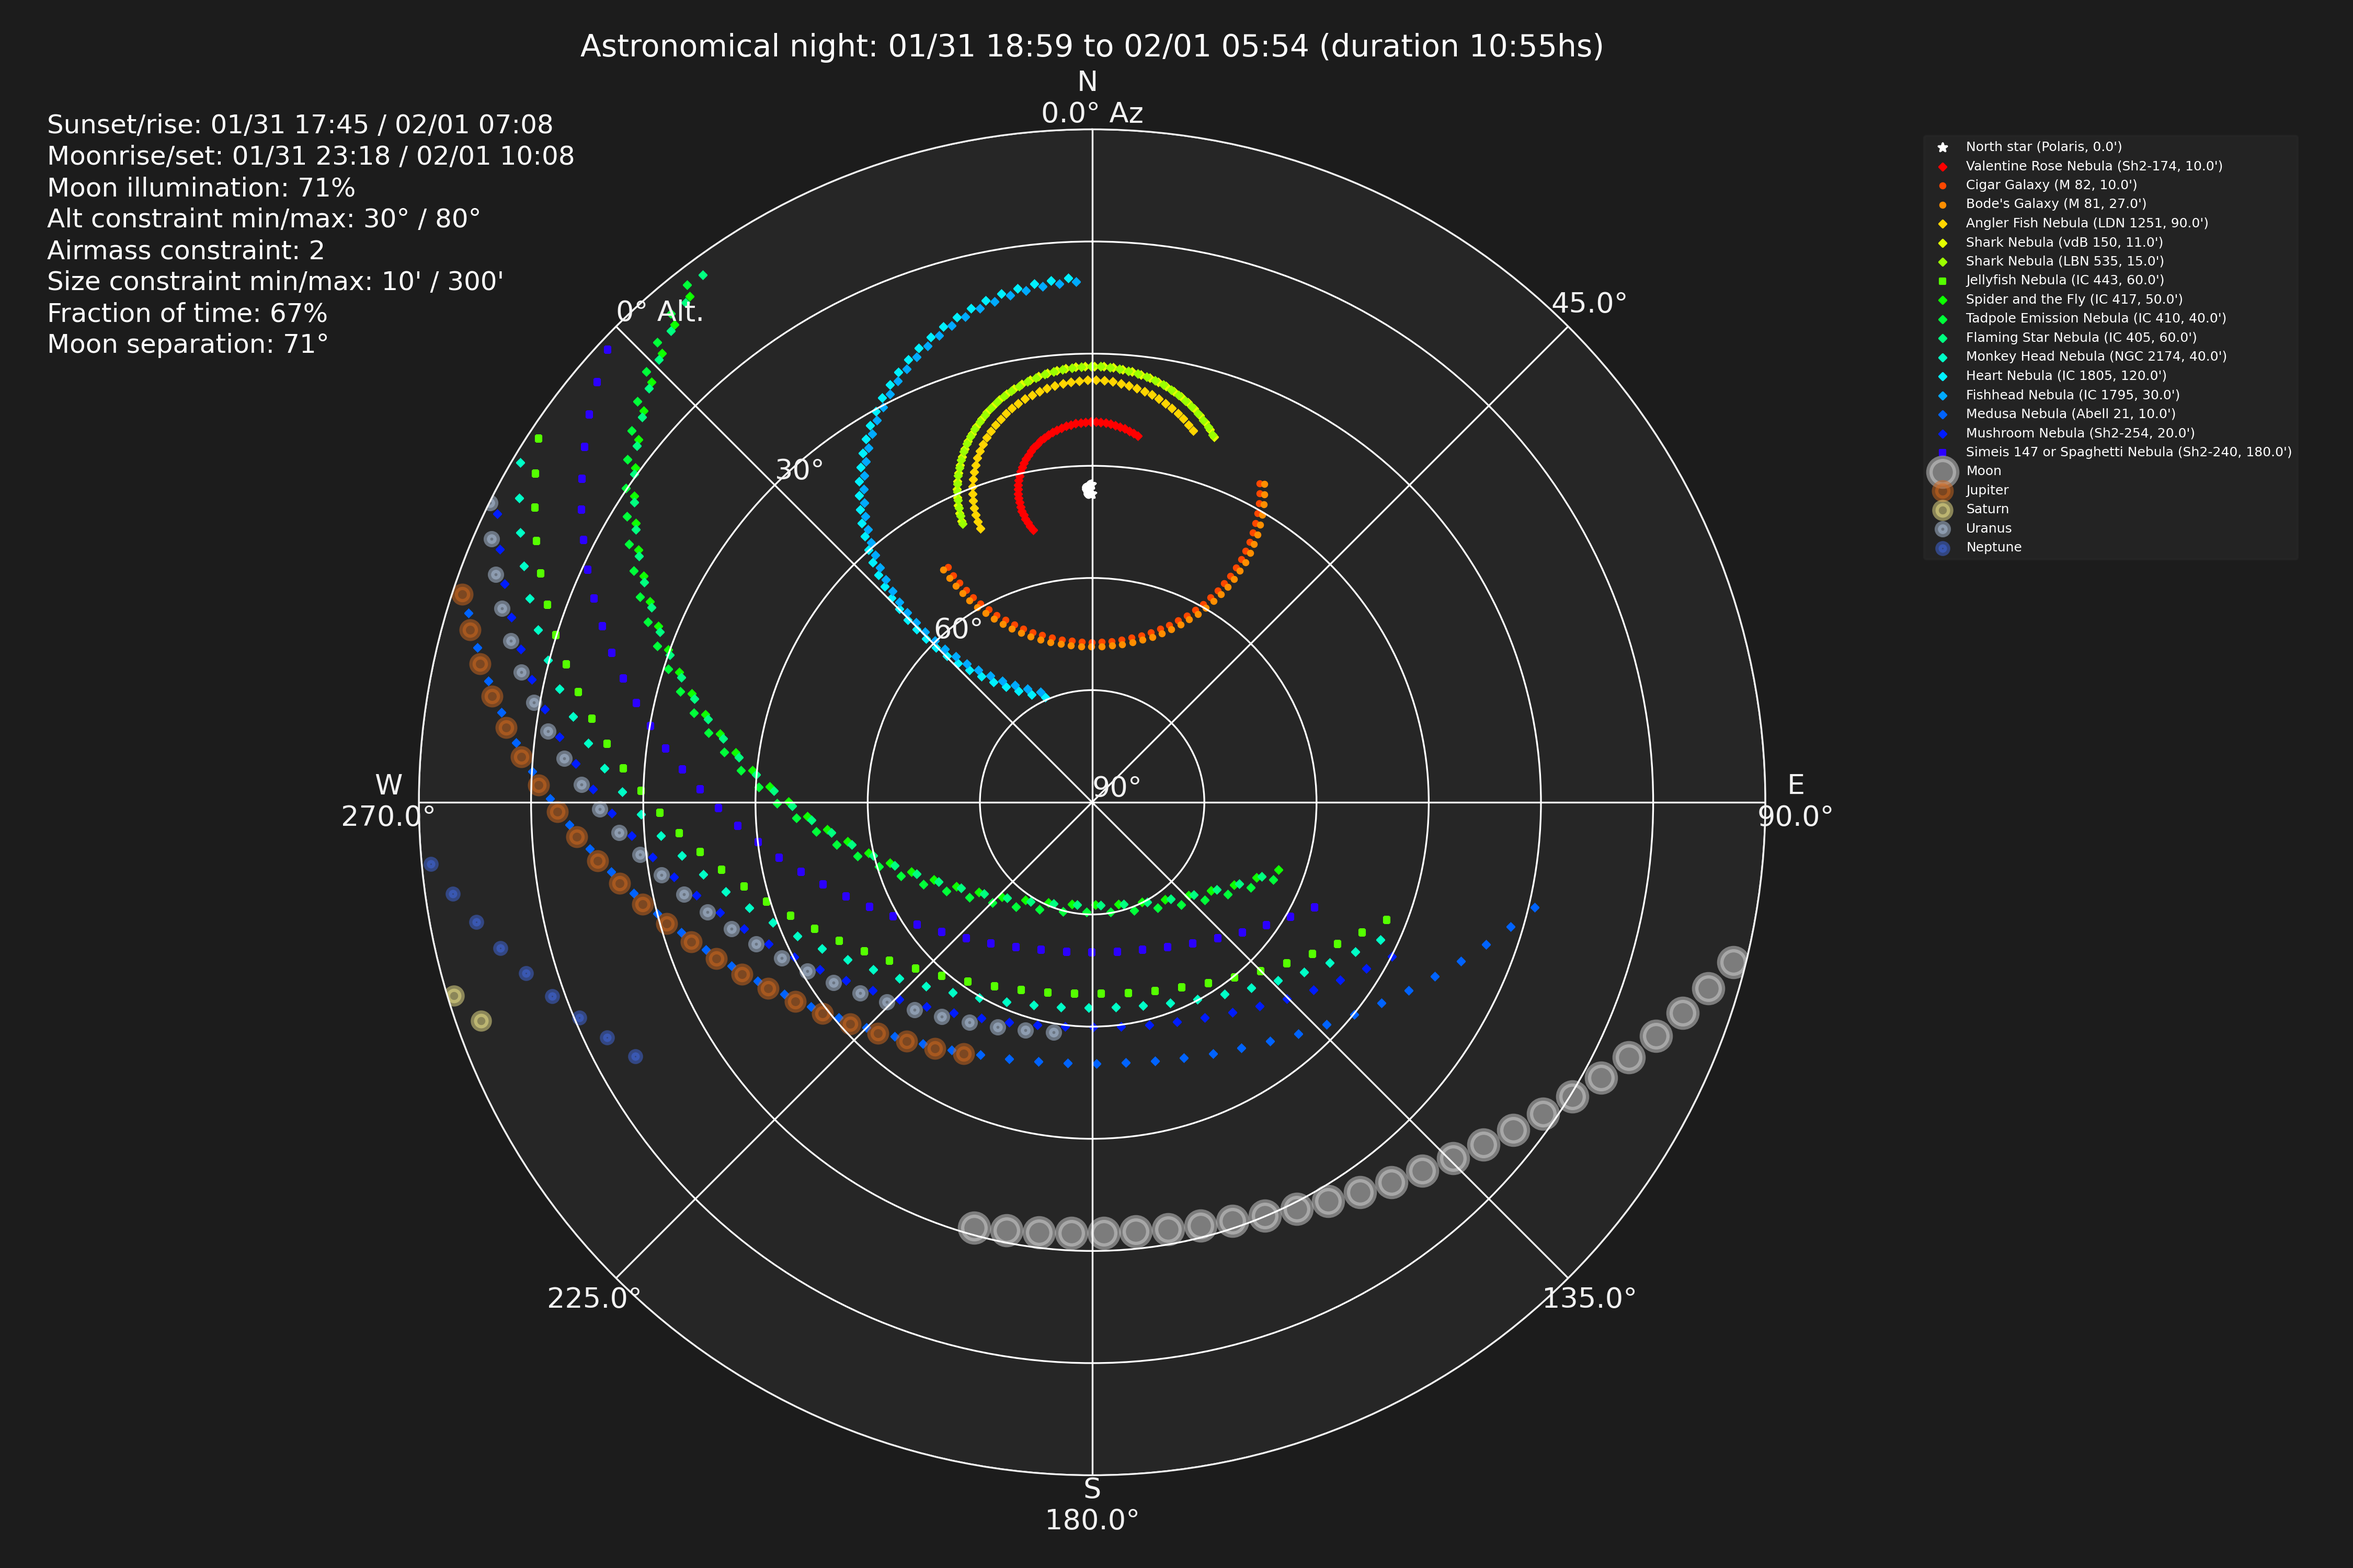
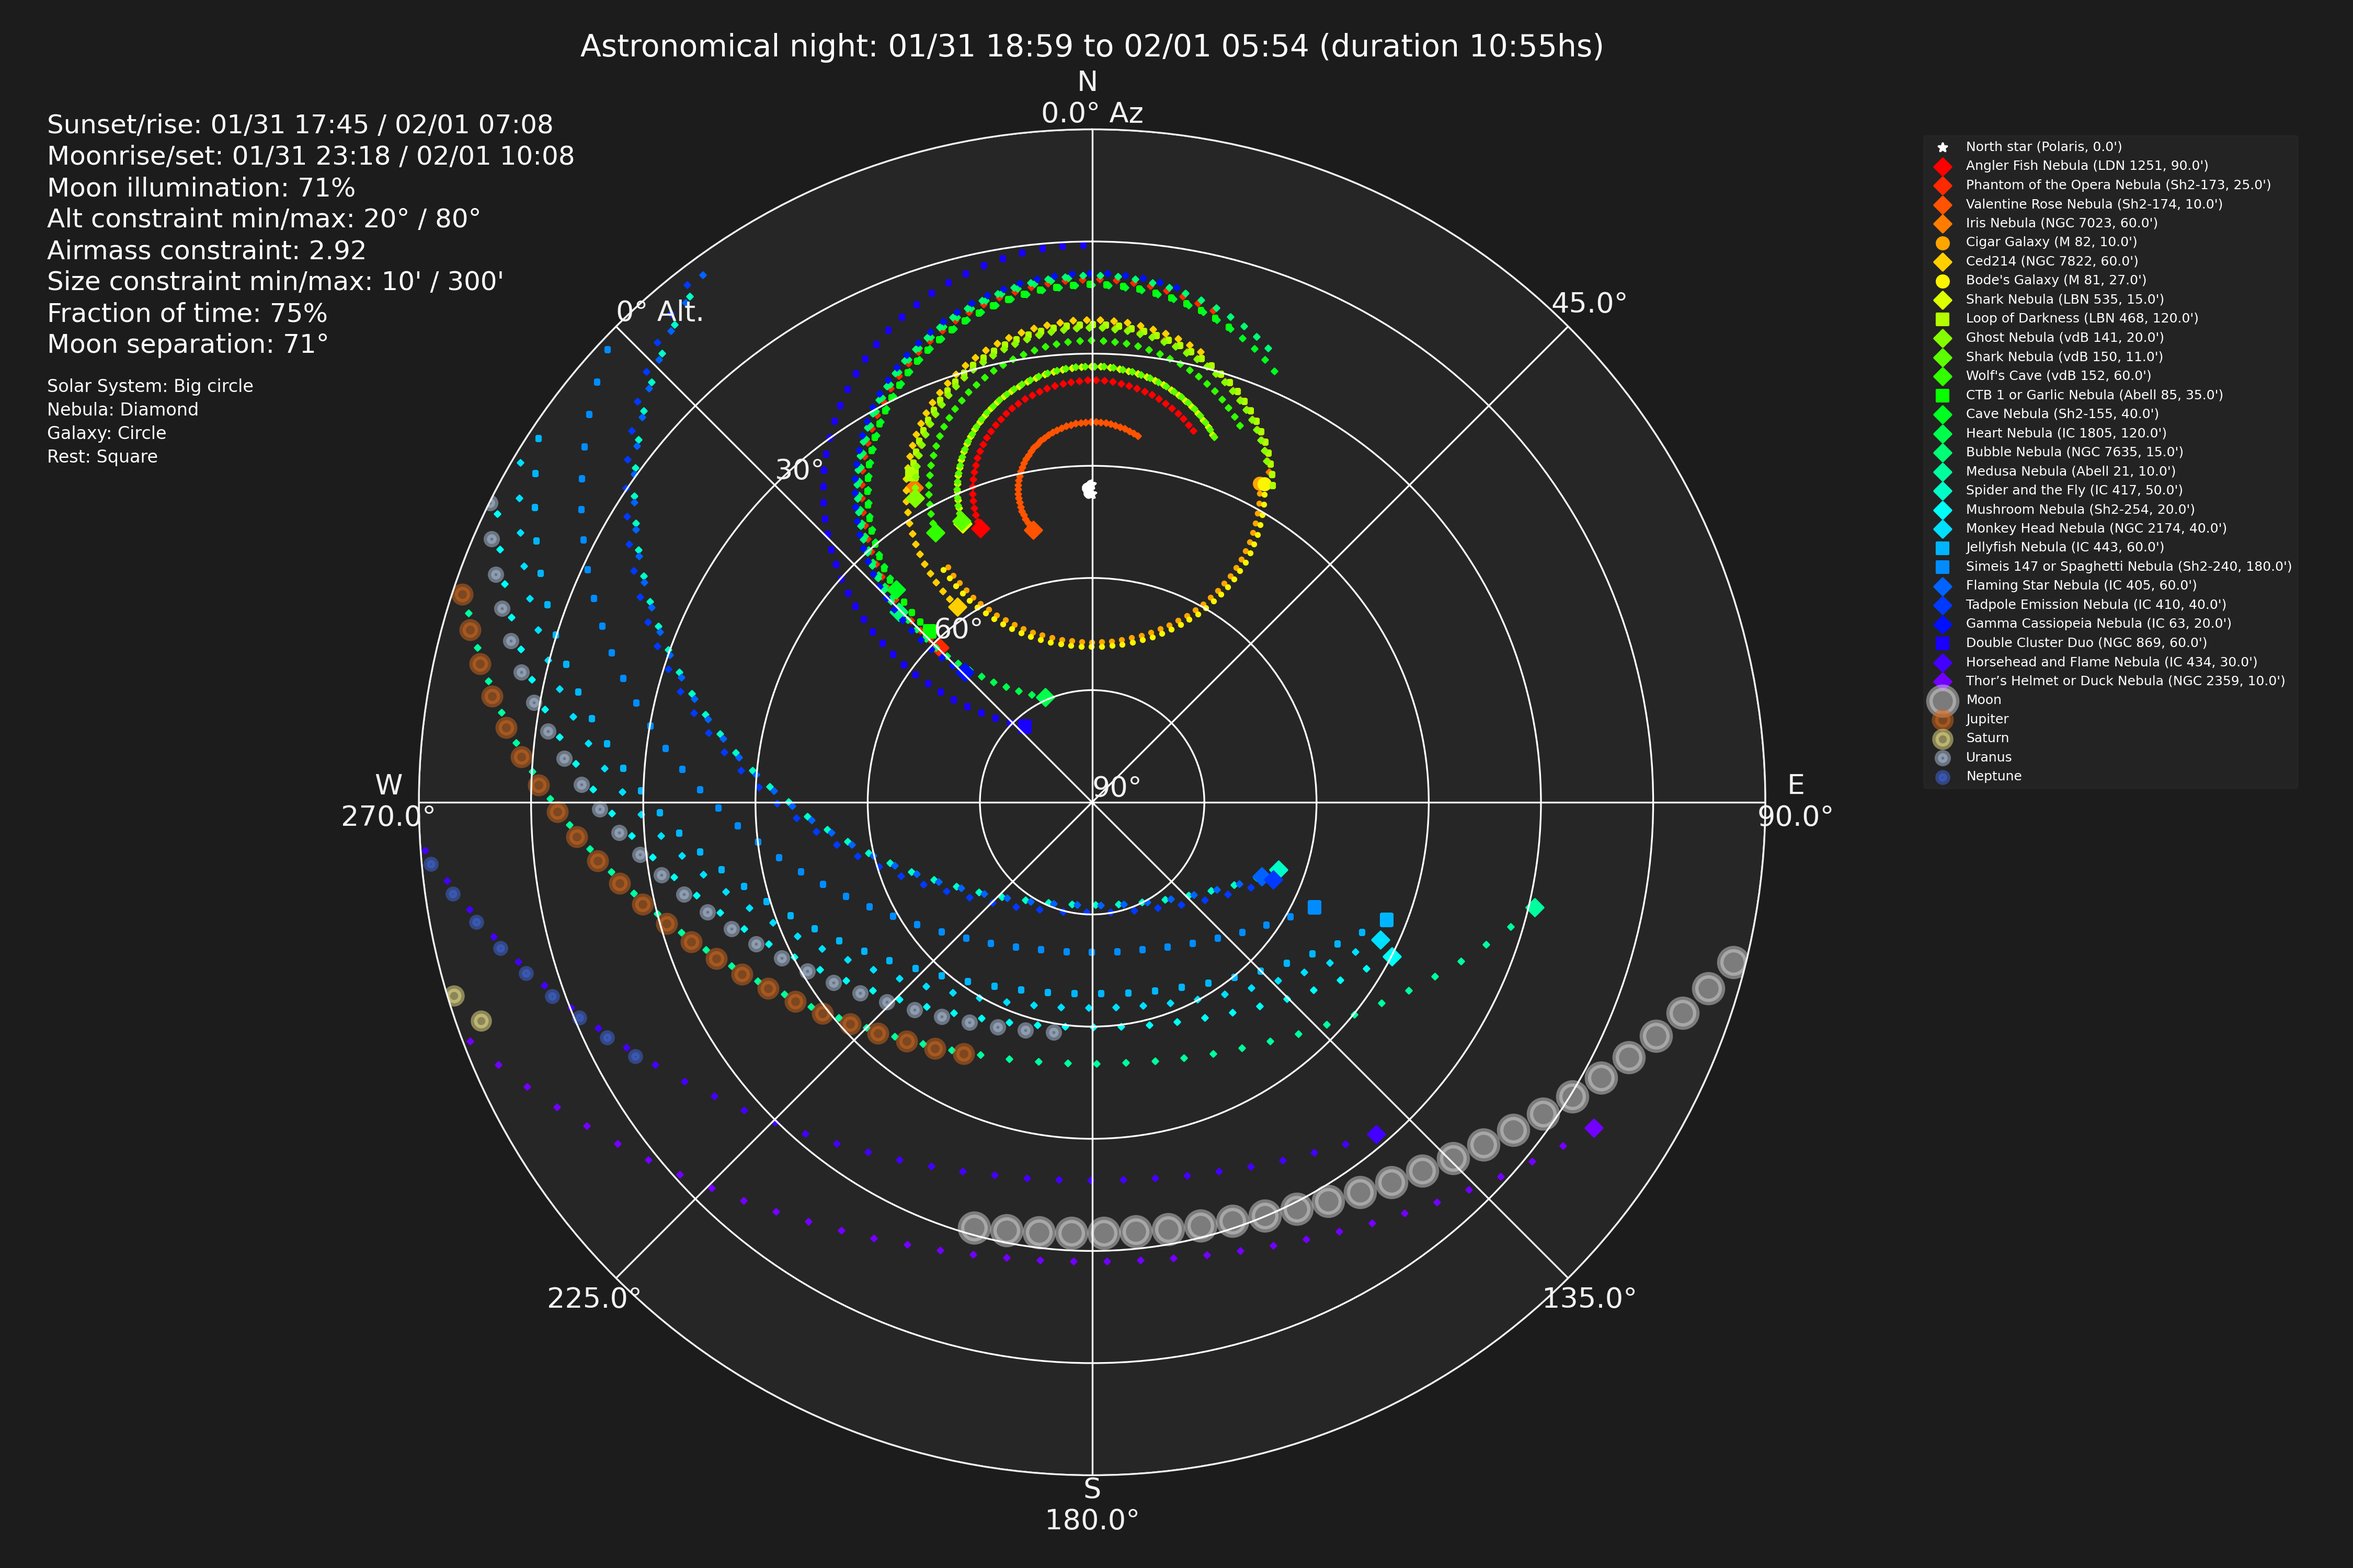
easier object identification

diff --git a/uptonight/uptonight.py b/uptonight/uptonight.py
@@ -857,10 +857,13 @@ def calc(
                 continue
 
             # Choose marker
+            # Square
             marker = "s"
             if "galaxy" in input_targets[index]["type"].lower():
+                # Circle
                 marker = "o"
             if "nebula" in input_targets[index]["type"].lower():
+                # Diamond
                 marker = "D"
 
             size = input_targets[index]["size"]
@@ -906,10 +909,16 @@ def calc(
                     target,
                     observer,
                     time_grid,
-                    style_kwargs=dict(color=cmap(target_no / within_threshold * 0.75), label=target.name, marker=marker, s=5),
+                    style_kwargs=dict(color=cmap(target_no / within_threshold * 0.75), label='_Hidden', marker=marker, s=3),
                     north_to_east_ccw=constraints["north_to_east_ccw"],
                 )
-
+                ax = plot_sky(
+                    target,
+                    observer,
+                    observing_start_time,
+                    style_kwargs=dict(color=cmap(target_no / within_threshold * 0.75), label=target.name, marker=marker, s=30),
+                    north_to_east_ccw=constraints["north_to_east_ccw"],
+                )
                 target_no = target_no + 1
 
         if target_row["name"] == "Polaris" or target_row["name"] in CUSTOM_TARGETS:
@@ -1010,6 +1019,12 @@ def calc(
             size=12,
         )
         plt.figtext(0.02, 0.775, "Moon separation: {:.0f}°".format(moon_separation), size=12)
+
+        plt.figtext(0.02, 0.750, "Solar System: Big circle", size=8)
+        plt.figtext(0.02, 0.735, "Nebula: Diamond", size=8)
+        plt.figtext(0.02, 0.720, "Galaxy: Circle", size=8)
+        plt.figtext(0.02, 0.705, "Rest: Square", size=8)
+
         plt.tight_layout()
 
     # Save plot

diff --git a/README.md b/README.md
@@ -24,28 +24,39 @@ Observatory: Backyard
 
 Observation timespan: 01/31 18:59 to 02/01 05:54 in astronomical darkness
 Moon illumination: 71%
-Contraints: Altitude constraint minimum: 30°, maximum: 80°, Airmass constraint: 2, Moon separation constraint: 71°, Size constraint minimum: 10', maximum: 300'
+Contraints: Altitude constraint minimum: 20°, maximum: 80°, Airmass constraint: 2.92, Moon separation constraint: 71°, Size constraint minimum: 10', maximum: 300'
 Altitude and Azimuth calculated for 01/31 18:59
 
                                      target name               hmsdms right ascension declination altitude azimuth    meridian transit antimeridian transit              type constellation  size foto
 ------------------------------------------------ -------------------- --------------- ----------- -------- ------- ------------------- -------------------- ----------------- ------------- ----- ----
-          Valentine Rose Nebula (Sh2-174, 10.0') 23h47m08s +80d49m22s           356.8        80.8     52.8   347.8                      02/01/2024 03:18:30  Planetary Nebula       Cepheus  10.0  1.0
-                      Cigar Galaxy (M 82, 10.0') 09h55m53s +69d40m50s           149.0        69.7     41.8    27.7 02/01/2024 01:28:42                                 Galaxy    Ursa Major  10.0  1.0
-                     Bode's Galaxy (M 81, 27.0') 09h55m33s +69d03m56s           148.9        69.1     41.6    28.4 02/01/2024 01:28:20                                 Galaxy    Ursa Major  27.0  1.0
             Angler Fish Nebula (LDN 1251, 90.0') 22h36m03s +75d15m35s           339.0        75.2     50.4   337.8                      02/01/2024 02:07:06       Dark Nebula       Cepheus  90.0  1.0
-                   Shark Nebula (vdB 150, 11.0') 22h09m40s +73d23m25s           332.5        73.4     48.5   335.0                      02/01/2024 01:40:42 Reflection Nebula       Cepheus  11.0  1.0
+    Phantom of the Opera Nebula (Sh2-173, 25.0') 00h21m16s +61d43m30s             5.3        61.7     61.0   315.5                      02/01/2024 03:52:55   Emission Nebula    Cassiopeia  25.0  1.0
+          Valentine Rose Nebula (Sh2-174, 10.0') 23h47m08s +80d49m22s           356.8        80.8     52.8   347.8                      02/01/2024 03:18:30  Planetary Nebula       Cepheus  10.0  1.0
+                   Iris Nebula (NGC 7023, 60.0') 21h01m36s +68d10m10s           315.5        68.2     41.7   330.5                      02/01/2024 00:32:44 Reflection Nebula       Cepheus  60.0  1.0
+                      Cigar Galaxy (M 82, 10.0') 09h55m53s +69d40m50s           149.0        69.7     41.8    27.7 02/01/2024 01:28:42                                 Galaxy    Ursa Major  10.0  1.0
+                        Ced214 (NGC 7822, 60.0') 00h03m36s +67d09m00s             0.9        67.1     58.2   325.5                      02/01/2024 03:35:13   Emission Nebula       Cepheus  60.0  1.0
+                     Bode's Galaxy (M 81, 27.0') 09h55m33s +69d03m56s           148.9        69.1     41.6    28.4 02/01/2024 01:28:20                                 Galaxy    Ursa Major  27.0  1.0
                    Shark Nebula (LBN 535, 15.0') 22h14m55s +73d25m00s           333.8        73.4     48.9   335.0                      02/01/2024 01:45:58 Reflection Nebula       Cepheus  15.0  1.0
-                Jellyfish Nebula (IC 443, 60.0') 06h16m36s +22d31m00s            94.1        22.5     47.6   111.8 01/31/2024 21:49:26                      Supernova Remnant        Gemini  60.0  0.7
-              Spider and the Fly (IC 417, 50.0') 05h28m06s +34d25m24s            82.0        34.4     63.5   109.8 01/31/2024 21:01:13                        Emission Nebula        Auriga  50.0  0.7
-         Tadpole Emission Nebula (IC 410, 40.0') 05h22m44s +33d25m00s            80.7        33.4     63.7   113.2 01/31/2024 20:55:50                        Emission Nebula        Auriga  40.0  0.7
-             Flaming Star Nebula (IC 405, 60.0') 05h16m29s +34d21m24s            79.1        34.3     65.3   113.6 01/31/2024 20:49:37                        Emission Nebula        Auriga  60.0  0.7
-            Monkey Head Nebula (NGC 2174, 40.0') 06h09m24s +20d39m34s            92.4        20.7     47.3   115.5 01/31/2024 21:42:14                        Emission Nebula         Orion  40.0  0.7
-                  Heart Nebula (IC 1805, 120.0') 02h32m47s +61d28m30s            38.2        61.5     74.6   335.8                                            Emission Nebula    Cassiopeia 120.0  0.7
-                Fishhead Nebula (IC 1795, 30.0') 02h26m32s +62d02m39s            36.6        62.0     73.8   334.8                                            Emission Nebula    Cassiopeia  30.0  0.7
-                 Medusa Nebula (Abell 21, 10.0') 07h29m03s +13d14m48s           112.2        13.2     29.2   103.4 01/31/2024 23:01:35                       Planetary Nebula        Gemini  10.0  0.7
-                Mushroom Nebula (Sh2-254, 20.0') 06h11m59s +18d03m18s            93.0        18.1     44.9   117.2 01/31/2024 21:44:47                        Emission Nebula         Orion  20.0  0.7
-Simeis 147 or Spaghetti Nebula (Sh2-240, 180.0') 05h41m06s +28d05m00s            85.2        28.1     57.2   115.2 01/31/2024 21:14:06                      Supernova Remnant        Taurus 180.0  0.7
-
+              Loop of Darkness (LBN 468, 120.0') 20h42m29s +67d51m00s           310.5        67.9     39.9   331.2                      02/01/2024 00:13:37   Molecular Cloud       Cepheus 120.0  1.0
+                   Ghost Nebula (vdB 141, 20.0') 21h16m27s +68d15m52s           319.0        68.2     42.9   329.8                      02/01/2024 00:47:36 Reflection Nebula       Cepheus  20.0  1.0
+                   Shark Nebula (vdB 150, 11.0') 22h09m40s +73d23m25s           332.5        73.4     48.5   335.0                      02/01/2024 01:40:42 Reflection Nebula       Cepheus  11.0  1.0
+                    Wolf's Cave (vdB 152, 60.0') 22h14m02s +69d56m00s           333.5        69.9     48.3   329.8                      02/01/2024 01:45:15 Reflection Nebula       Cepheus  60.0  1.0
+        CTB 1 or Garlic Nebula (Abell 85, 35.0') 23h59m54s +62d26m51s           360.0        62.4     58.4   316.5                      02/01/2024 03:31:31 Supernova Remnant    Cassiopeia  35.0  1.0
+                    Cave Nebula (Sh2-155, 40.0') 22h57m54s +62d31m06s           344.5        62.5     51.3   317.2                      02/01/2024 02:29:24       Dark Nebula       Cepheus  40.0  1.0
+                  Heart Nebula (IC 1805, 120.0') 02h32m47s +61d28m30s            38.2        61.5     74.6   335.8                                            Emission Nebula    Cassiopeia 120.0  1.0
+                 Bubble Nebula (NGC 7635, 15.0') 23h20m45s +61d12m42s           350.2        61.2     53.8   314.5                      02/01/2024 02:52:18   Emission Nebula    Cassiopeia  15.0  0.9
+                 Medusa Nebula (Abell 21, 10.0') 07h29m03s +13d14m48s           112.2        13.2     29.2   103.4 01/31/2024 23:01:35                       Planetary Nebula        Gemini  10.0  0.9
+              Spider and the Fly (IC 417, 50.0') 05h28m06s +34d25m24s            82.0        34.4     63.5   109.8 01/31/2024 21:01:13                        Emission Nebula        Auriga  50.0  0.8
+                Mushroom Nebula (Sh2-254, 20.0') 06h11m59s +18d03m18s            93.0        18.1     44.9   117.2 01/31/2024 21:44:47                        Emission Nebula         Orion  20.0  0.8
+            Monkey Head Nebula (NGC 2174, 40.0') 06h09m24s +20d39m34s            92.4        20.7     47.3   115.5 01/31/2024 21:42:14                        Emission Nebula         Orion  40.0  0.8
+                Jellyfish Nebula (IC 443, 60.0') 06h16m36s +22d31m00s            94.1        22.5     47.6   111.8 01/31/2024 21:49:26                      Supernova Remnant        Gemini  60.0  0.8
+Simeis 147 or Spaghetti Nebula (Sh2-240, 180.0') 05h41m06s +28d05m00s            85.2        28.1     57.2   115.2 01/31/2024 21:14:06                      Supernova Remnant        Taurus 180.0  0.8
+             Flaming Star Nebula (IC 405, 60.0') 05h16m29s +34d21m24s            79.1        34.3     65.3   113.6 01/31/2024 20:49:37                        Emission Nebula        Auriga  60.0  0.8
+         Tadpole Emission Nebula (IC 410, 40.0') 05h22m44s +33d25m00s            80.7        33.4     63.7   113.2 01/31/2024 20:55:50                        Emission Nebula        Auriga  40.0  0.8
+          Gamma Cassiopeia Nebula (IC 63, 20.0') 00h59m29s +60d54m42s            14.9        60.9     65.6   315.5                      02/01/2024 04:31:11   Emission Nebula    Cassiopeia  20.0  0.8
+             Double Cluster Duo (NGC 869, 60.0') 02h19m00s +57d07m42s            34.8        57.1     76.4   318.5                      02/01/2024 05:50:44      Open Cluster       Perseus  60.0  0.8
+      Horsehead and Flame Nebula (IC 434, 30.0') 05h41m00s -02d27m12s            85.2        -2.5     31.6   139.4 01/31/2024 21:13:41                            Dark Nebula         Orion  30.0  0.5
+  Thor’s Helmet or Duck Nebula (NGC 2359, 10.0') 07h18m30s -13d13m36s           109.6       -13.2     10.0   123.0 01/31/2024 22:50:50                      Wolf-Rayet Nebula   Canis Major  10.0  0.5
 ```
 
 ## Table of Content<!-- omit in toc -->
